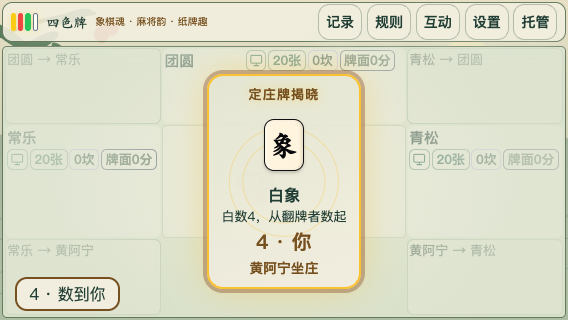
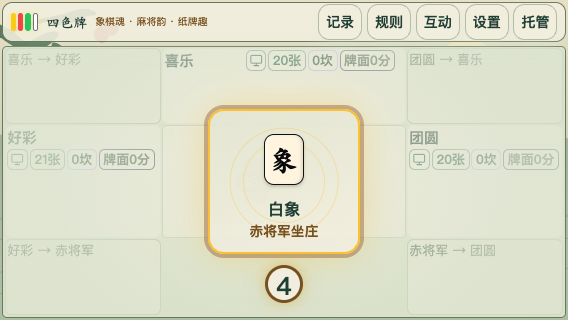
fix: animate dealer counting between seats without explanatory copy

diff --git a/client/src/components/GameBoard.vue.js b/client/src/components/GameBoard.vue.js
@@ -990,6 +990,7 @@ const dealerPickerDescription = computed(() => {
 const dealerCountTotal = computed(() => ({ yellow: 1, red: 2, green: 3, white: 4, gold: 2 }[dealerCeremonyCard.value?.color ?? "yellow"] ?? 1));
 const dealerCountStep = computed(() => dealerReveal.value?.stage === "revealed"
     ? Math.min(dealerCountTotal.value, 1 + Math.floor(Math.max(0, nowMs.value - dealerReveal.value.startedAt - 450) / 650)) : 0);
+const dealerCountingFinished = computed(() => Boolean(dealerReveal.value && nowMs.value - dealerReveal.value.startedAt >= 450 + (dealerCountTotal.value - 1) * 650 + 480));
 const dealerCountingSeatId = computed(() => {
     const reveal = dealerReveal.value;
     if (!reveal)
@@ -1003,7 +1004,13 @@ const dealerCountingSeatId = computed(() => {
     return first < 0 ? "" : players[(first + dealerCountStep.value - 1) % players.length]?.clientId ?? "";
 });
 const dealerCountingName = computed(() => dealerCountingSeatId.value === props.mySeatId ? "你" : props.players.find(player => player.clientId === dealerCountingSeatId.value)?.name || "牌友");
-const dealerCountColor = computed(() => ({ yellow: "黄", red: "红", green: "绿", white: "白", gold: "金条按红色" }[dealerCeremonyCard.value?.color ?? "yellow"]));
+const dealerCounterPosition = computed(() => {
+    const id = dealerCountingSeatId.value;
+    const position = id === props.mySeatId ? [50, 88]
+        : id === topPlayer.value?.clientId ? [50, 15]
+            : id === leftPlayer.value?.clientId ? [16, 50] : [84, 50];
+    return { left: `${position[0]}%`, top: `${position[1]}%` };
+});
 const dealerRevealAccessibleText = computed(() => {
     const reveal = dealerReveal.value;
     const card = dealerCeremonyCard.value;
@@ -2049,7 +2056,7 @@ debugger; /* PartiallyEnd: #3632/scriptSetup.vue */
 const __VLS_ctx = {};
 let __VLS_components;
 let __VLS_directives;
-/** @type {__VLS_StyleScopedClasses['dealer-count-status']} */ ;
+/** @type {__VLS_StyleScopedClasses['dealer-count-token']} */ ;
 /** @type {__VLS_StyleScopedClasses['board']} */ ;
 /** @type {__VLS_StyleScopedClasses['player-card']} */ ;
 /** @type {__VLS_StyleScopedClasses['dealer-picker-active']} */ ;
@@ -2627,12 +2634,17 @@ __VLS_asFunctionalElement(__VLS_intrinsicElements.div, __VLS_intrinsicElements.d
     ref: "tableRef",
 });
 /** @type {typeof __VLS_ctx.tableRef} */ ;
-if (__VLS_ctx.dealerCountingSeatId === __VLS_ctx.mySeatId) {
+if (__VLS_ctx.dealerReveal?.stage === 'revealed' && __VLS_ctx.dealerReveal.pickerId) {
     __VLS_asFunctionalElement(__VLS_intrinsicElements.div, __VLS_intrinsicElements.div)({
-        ...{ class: "dealer-self-marker" },
-        'data-testid': "dealer-self-marker",
+        ...{ class: "dealer-count-token" },
+        key: (__VLS_ctx.dealerReveal.id),
+        'data-testid': "dealer-count-status",
+        ...{ style: ([__VLS_ctx.dealerCounterPosition, __VLS_ctx.reducedTableMotion ? { transition: 'none' } : {}]) },
+        'data-count-step': (__VLS_ctx.dealerCountStep),
+        'data-count-seat': (__VLS_ctx.dealerCountingSeatId),
+        'aria-label': (`${__VLS_ctx.dealerCountStep}，${__VLS_ctx.dealerCountingName}`),
     });
-    (__VLS_ctx.dealerReveal?.stage === 'picking' ? '由你翻牌' : `${__VLS_ctx.dealerCountStep} · 数到你`);
+    (__VLS_ctx.dealerCountStep);
 }
 __VLS_asFunctionalElement(__VLS_intrinsicElements.div)({
     id: "declaration-guidance-anchor",
@@ -3518,16 +3530,12 @@ if (__VLS_ctx.dealerReveal) {
     __VLS_asFunctionalElement(__VLS_intrinsicElements.div, __VLS_intrinsicElements.div)({
         ...{ class: "dealer-reveal-panel" },
     });
-    __VLS_asFunctionalElement(__VLS_intrinsicElements.span, __VLS_intrinsicElements.span)({
-        ...{ class: "dealer-reveal-label" },
-    });
-    (__VLS_ctx.dealerReveal.label);
     if (__VLS_ctx.dealerReveal.stage === 'picking') {
         __VLS_asFunctionalElement(__VLS_intrinsicElements.strong, __VLS_intrinsicElements.strong)({
             ...{ class: "dealer-picker-name" },
             'data-testid': "dealer-picker-name",
         });
-        (__VLS_ctx.dealerPickerDescription);
+        (__VLS_ctx.dealerCountingName);
     }
     __VLS_asFunctionalElement(__VLS_intrinsicElements.div, __VLS_intrinsicElements.div)({
         ...{ class: "dealer-reveal-tile" },
@@ -3568,23 +3576,7 @@ if (__VLS_ctx.dealerReveal) {
         });
         (__VLS_ctx.getCardAccessibleText(__VLS_ctx.dealerCeremonyCard));
     }
-    if (__VLS_ctx.dealerReveal.stage === 'revealed' && __VLS_ctx.dealerReveal.pickerId) {
-        __VLS_asFunctionalElement(__VLS_intrinsicElements.div, __VLS_intrinsicElements.div)({
-            ...{ class: "dealer-count-status" },
-            'data-testid': "dealer-count-status",
-            'data-count-step': (__VLS_ctx.dealerCountStep),
-            'data-count-seat': (__VLS_ctx.dealerCountingSeatId),
-        });
-        __VLS_asFunctionalElement(__VLS_intrinsicElements.span, __VLS_intrinsicElements.span)({});
-        (__VLS_ctx.dealerCountColor);
-        (__VLS_ctx.dealerCountTotal);
-        __VLS_asFunctionalElement(__VLS_intrinsicElements.strong, __VLS_intrinsicElements.strong)({
-            key: (__VLS_ctx.dealerCountStep),
-        });
-        (__VLS_ctx.dealerCountStep);
-        (__VLS_ctx.dealerCountingName);
-    }
-    if (__VLS_ctx.dealerReveal.stage === 'revealed' && __VLS_ctx.dealerReveal.dealerName && (!__VLS_ctx.dealerReveal.pickerId || __VLS_ctx.dealerCountStep === __VLS_ctx.dealerCountTotal)) {
+    if (__VLS_ctx.dealerReveal.stage === 'revealed' && __VLS_ctx.dealerReveal.dealerName && (!__VLS_ctx.dealerReveal.pickerId || __VLS_ctx.dealerCountingFinished)) {
         __VLS_asFunctionalElement(__VLS_intrinsicElements.small, __VLS_intrinsicElements.small)({
             ...{ class: "dealer-reveal-result" },
         });
@@ -4097,7 +4089,7 @@ for (const [flight] of __VLS_getVForSourceType((__VLS_ctx.flights))) {
 }
 /** @type {__VLS_StyleScopedClasses['board']} */ ;
 /** @type {__VLS_StyleScopedClasses['table']} */ ;
-/** @type {__VLS_StyleScopedClasses['dealer-self-marker']} */ ;
+/** @type {__VLS_StyleScopedClasses['dealer-count-token']} */ ;
 /** @type {__VLS_StyleScopedClasses['declaration-guidance-anchor']} */ ;
 /** @type {__VLS_StyleScopedClasses['flow-card']} */ ;
 /** @type {__VLS_StyleScopedClasses['flow-top-left']} */ ;
@@ -4220,13 +4212,11 @@ for (const [flight] of __VLS_getVForSourceType((__VLS_ctx.flights))) {
 /** @type {__VLS_StyleScopedClasses['table-notice-toast']} */ ;
 /** @type {__VLS_StyleScopedClasses['dealer-reveal']} */ ;
 /** @type {__VLS_StyleScopedClasses['dealer-reveal-panel']} */ ;
-/** @type {__VLS_StyleScopedClasses['dealer-reveal-label']} */ ;
 /** @type {__VLS_StyleScopedClasses['dealer-picker-name']} */ ;
 /** @type {__VLS_StyleScopedClasses['dealer-reveal-tile']} */ ;
 /** @type {__VLS_StyleScopedClasses['dealer-reveal-back']} */ ;
 /** @type {__VLS_StyleScopedClasses['dealer-reveal-card']} */ ;
 /** @type {__VLS_StyleScopedClasses['dealer-reveal-card-name']} */ ;
-/** @type {__VLS_StyleScopedClasses['dealer-count-status']} */ ;
 /** @type {__VLS_StyleScopedClasses['dealer-reveal-result']} */ ;
 /** @type {__VLS_StyleScopedClasses['self-command-row']} */ ;
 /** @type {__VLS_StyleScopedClasses['clock-slot']} */ ;
@@ -4333,6 +4323,7 @@ const __VLS_self = (await import('vue')).defineComponent({
             responseCardPlacement: responseCardPlacement,
             activeTableEvents: activeTableEvents,
             centerCardVisible: centerCardVisible,
+            reducedTableMotion: reducedTableMotion,
             coordinateMotionSuppressed: coordinateMotionSuppressed,
             isMovingCard: isMovingCard,
             movingCardStyle: movingCardStyle,
@@ -4368,12 +4359,11 @@ const __VLS_self = (await import('vue')).defineComponent({
             centerPointerDirection: centerPointerDirection,
             dealerInfoCard: dealerInfoCard,
             dealerCeremonyCard: dealerCeremonyCard,
-            dealerPickerDescription: dealerPickerDescription,
-            dealerCountTotal: dealerCountTotal,
             dealerCountStep: dealerCountStep,
+            dealerCountingFinished: dealerCountingFinished,
             dealerCountingSeatId: dealerCountingSeatId,
             dealerCountingName: dealerCountingName,
-            dealerCountColor: dealerCountColor,
+            dealerCounterPosition: dealerCounterPosition,
             dealerRevealAccessibleText: dealerRevealAccessibleText,
             showDealerSeatMarker: showDealerSeatMarker,
             seatActionText: seatActionText,

diff --git a/client/src/components/GameBoard.vue b/client/src/components/GameBoard.vue
@@ -16,7 +16,8 @@
     @keydown.esc="handleBoardEscape"
   >
     <div class="table" ref="tableRef">
-      <div v-if="dealerCountingSeatId === mySeatId" class="dealer-self-marker" data-testid="dealer-self-marker">{{ dealerReveal?.stage === 'picking' ? '由你翻牌' : `${dealerCountStep} · 数到你` }}</div>
+      <div v-if="dealerReveal?.stage === 'revealed' && dealerReveal.pickerId" class="dealer-count-token" :key="dealerReveal.id" data-testid="dealer-count-status"
+        :style="[dealerCounterPosition, reducedTableMotion ? { transition: 'none' } : {}]" :data-count-step="dealerCountStep" :data-count-seat="dealerCountingSeatId" :aria-label="`${dealerCountStep}，${dealerCountingName}`">{{ dealerCountStep }}</div>
       <div id="declaration-guidance-anchor" class="declaration-guidance-anchor" :style="{ visibility: dealerReveal || flights.length || tableFlights.length ? 'hidden' : undefined }" />
       <section
         v-if="flowTopLeftPlayer"
@@ -508,8 +509,7 @@
         :aria-label="dealerRevealAccessibleText"
       >
         <div class="dealer-reveal-panel">
-            <span class="dealer-reveal-label">{{ dealerReveal.label }}</span>
-            <strong v-if="dealerReveal.stage === 'picking'" class="dealer-picker-name" data-testid="dealer-picker-name">由{{ dealerPickerDescription }}翻定庄牌</strong>
+            <strong v-if="dealerReveal.stage === 'picking'" class="dealer-picker-name" data-testid="dealer-picker-name">{{ dealerCountingName }}</strong>
             <div class="dealer-reveal-tile">
               <div
                 v-if="dealerReveal.stage === 'picking'"
@@ -527,11 +527,7 @@
             <strong v-if="dealerCeremonyCard" class="dealer-reveal-card-name">
               {{ getCardAccessibleText(dealerCeremonyCard) }}
             </strong>
-            <div v-if="dealerReveal.stage === 'revealed' && dealerReveal.pickerId" class="dealer-count-status" data-testid="dealer-count-status" :data-count-step="dealerCountStep" :data-count-seat="dealerCountingSeatId">
-              <span>{{ dealerCountColor }}数{{ dealerCountTotal }}，从翻牌者数起</span>
-              <strong :key="dealerCountStep">{{ dealerCountStep }} · {{ dealerCountingName }}</strong>
-            </div>
-            <small v-if="dealerReveal.stage === 'revealed' && dealerReveal.dealerName && (!dealerReveal.pickerId || dealerCountStep === dealerCountTotal)" class="dealer-reveal-result">
+            <small v-if="dealerReveal.stage === 'revealed' && dealerReveal.dealerName && (!dealerReveal.pickerId || dealerCountingFinished)" class="dealer-reveal-result">
               {{ dealerReveal.dealerName }}坐庄
             </small>
         </div>
@@ -1966,6 +1962,7 @@ const dealerPickerDescription = computed(() => {
 const dealerCountTotal = computed(() => ({ yellow: 1, red: 2, green: 3, white: 4, gold: 2 }[dealerCeremonyCard.value?.color ?? "yellow"] ?? 1));
 const dealerCountStep = computed(() => dealerReveal.value?.stage === "revealed"
   ? Math.min(dealerCountTotal.value, 1 + Math.floor(Math.max(0, nowMs.value - dealerReveal.value.startedAt - 450) / 650)) : 0);
+const dealerCountingFinished = computed(() => Boolean(dealerReveal.value && nowMs.value - dealerReveal.value.startedAt >= 450 + (dealerCountTotal.value - 1) * 650 + 480));
 const dealerCountingSeatId = computed(() => {
   const reveal = dealerReveal.value;
   if (!reveal) return "";
@@ -1976,7 +1973,13 @@ const dealerCountingSeatId = computed(() => {
   return first < 0 ? "" : players[(first + dealerCountStep.value - 1) % players.length]?.clientId ?? "";
 });
 const dealerCountingName = computed(() => dealerCountingSeatId.value === props.mySeatId ? "你" : props.players.find(player => player.clientId === dealerCountingSeatId.value)?.name || "牌友");
-const dealerCountColor = computed(() => ({ yellow: "黄", red: "红", green: "绿", white: "白", gold: "金条按红色" }[dealerCeremonyCard.value?.color ?? "yellow"]));
+const dealerCounterPosition = computed(() => {
+  const id = dealerCountingSeatId.value;
+  const position = id === props.mySeatId ? [50, 88]
+    : id === topPlayer.value?.clientId ? [50, 15]
+    : id === leftPlayer.value?.clientId ? [16, 50] : [84, 50];
+  return { left: `${position[0]}%`, top: `${position[1]}%` };
+});
 const dealerRevealAccessibleText = computed(() => {
   const reveal = dealerReveal.value;
   const card = dealerCeremonyCard.value;
@@ -3137,9 +3140,8 @@ watch(() => [props.tableLayout, props.tableCardMode, props.ownCardMode, flights.
 </script>
 
 <style scoped>
-.dealer-count-status { display: grid; text-align: center; gap: 3px; color: var(--ui-text); font-size: 13px; }
-.dealer-count-status strong { font-size: 20px; color: var(--ui-gold-text); }
-.dealer-self-marker { position: absolute; bottom: 6px; left: 12px; z-index: 31; padding: 4px 12px; border: 2px solid var(--ui-gold-text); border-radius: 12px; background: var(--ui-panel); color: var(--ui-text); }
+.dealer-count-token { position: absolute; z-index: 32; display: grid; place-items: center; width: 38px; height: 38px; border-radius: 50%; border: 3px solid var(--ui-gold-text, #b87912); background: var(--ui-panel, #fff7df); color: var(--ui-text); box-shadow: 0 0 16px rgba(210, 163, 55, .55); font-size: 25px; font-weight: 850; transform: translate(-50%, -50%); transition: left 480ms ease-in-out, top 480ms ease-in-out; pointer-events: none; }
+@media (prefers-reduced-motion: reduce) { .dealer-count-token { transition: none; } }
 .dealer-picker-name { color: var(--ui-text); font-size: clamp(1rem, 3vh, 1.4rem); max-width: 22rem; overflow-wrap: anywhere; }
 .board .player-card.dealer-picker-active::after { content: attr(data-dealer-count); position: absolute; top: -8px; right: -8px; display: grid; place-items: center; min-width: 24px; height: 24px; border-radius: 50%; background: var(--ui-gold-text, #b87912); color: var(--ui-panel, #fff7df); font-size: 16px; font-weight: 800; }
 .board .player-card.dealer-picker-active { z-index: 11; outline: 3px solid var(--ui-gold-text, #b87912); outline-offset: 3px; background: rgba(var(--ui-raised-rgb, 255, 247, 220), .8); }

diff --git a/tests/e2e/appearance.spec.ts b/tests/e2e/appearance.spec.ts
@@ -265,6 +265,8 @@ test('dealer ceremony counts from the picker to the authoritative dealer for eve
     await page.evaluate(scenario => (window as any).__siseLocalTest.setupScenario(scenario), `dealer_count_${color}`);
     const status = page.getByTestId('dealer-count-status');
     await expect(status).toHaveAttribute('data-count-step', '1');
+    await expect(page.getByTestId('dealer-ceremony')).not.toContainText('从翻牌者数起');
+    const startPosition = await status.boundingBox();
     const state = await page.evaluate(() => (window as any).__siseLocalTest.getRoomState());
     const seats = [...state.players].sort((a: any,b: any) => a.seatIndex - b.seatIndex);
     const first = seats.findIndex((p: any) => p.clientId === state.dealerPickerId);
@@ -273,6 +275,9 @@ test('dealer ceremony counts from the picker to the authoritative dealer for eve
       await expect(status).toHaveAttribute('data-count-seat', seats[(first + step - 1) % seats.length].clientId);
     }
     await expect(status).toHaveAttribute('data-count-seat', state.dealerId);
+    await page.waitForTimeout(520);
+    const endPosition = await status.boundingBox();
+    if (total > 1) expect(Math.hypot(endPosition!.x - startPosition!.x, endPosition!.y - startPosition!.y)).toBeGreaterThan(30);
     await expect(page.locator('.dealer-reveal-result')).toBeVisible();
     await expect(page.getByTestId('game-interaction')).toBeInViewport({ ratio: 1 });
     await expect(page.getByTestId('game-auto-play')).toBeInViewport({ ratio: 1 });

diff --git a/docs/mobile-table-usability.md b/docs/mobile-table-usability.md
@@ -8,7 +8,7 @@
 
 牌局顶栏常驻记录、规则、互动、设置和托管／取消托管。点击设置直接进入外观、牌桌与纸牌、声音与提醒、辅助功能分类；长期牌形习惯仍放在“牌桌与纸牌”。互动入口播放期间保持可打开，面板内发送按钮遵守短句串行限制。临时静音和退出位于设置首页，静音不改变长期声音偏好。
 
-定庄先用 2.2 秒明确显示翻牌者姓名与相对座位，并高亮翻牌席位。亮牌后从翻牌者作为第 1 位，按权威座次环依次计数：黄 1、红 2、绿 3、白 4，金条按红 2；每步约 650 毫秒，逐席高亮，最后显示坐庄结果。服务端揭晓阶段预留 3.4 秒，随后继续发牌，定庄规则不变。
+定庄先用 2.2 秒标出翻牌席位与玩家姓名。亮牌后从翻牌者作为第 1 位，按权威座次环依次计数：黄 1、红 2、绿 3、白 4，金条按红 2；数字圆标每步约 650 毫秒沿席位平滑移动，同时逐席高亮，圆标到达最后一位后显示坐庄结果。画面不放“从翻牌者数起”等解释句，详细说明仅保留在无障碍标签中。服务端揭晓阶段预留 3.4 秒，随后继续发牌，定庄规则不变。
 
 ## 验证
 
